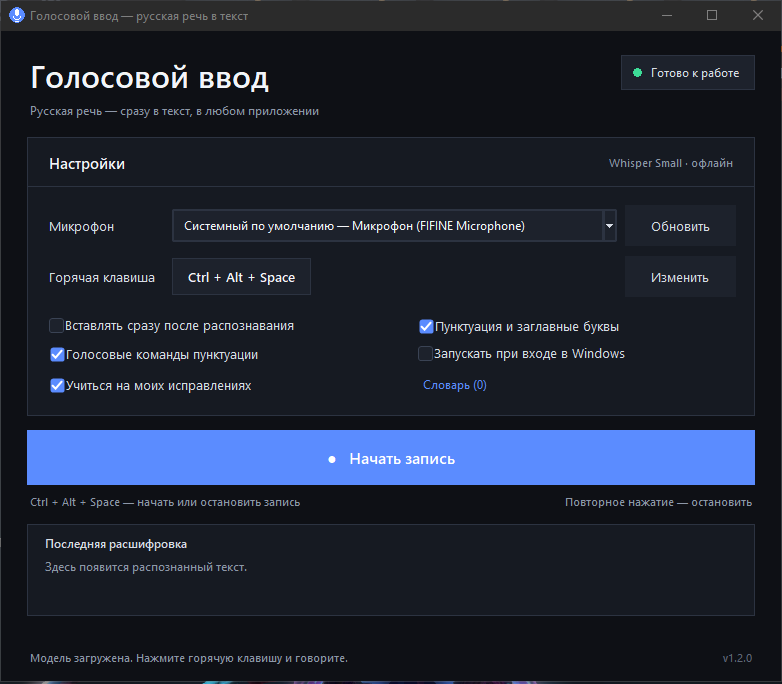
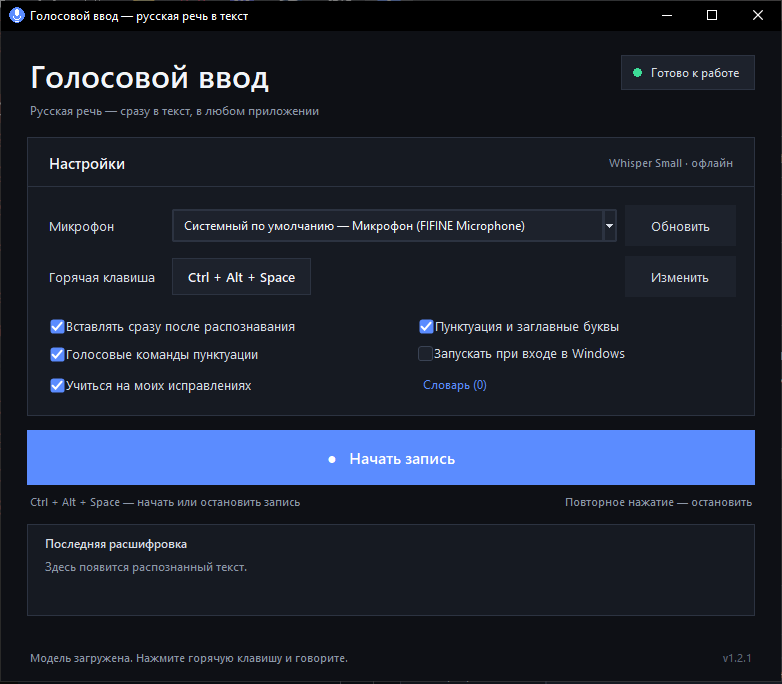
Fix input latency: use RegisterHotKey instead of keyboard hook

diff --git a/voice_input/hotkeys.py b/voice_input/hotkeys.py
@@ -1,7 +1,10 @@
-"""Глобальные горячие клавиши и их запись."""
+"""Глобальные горячие клавиши Windows без низкоуровневого перехвата клавиатуры."""
 from __future__ import annotations
 
+import ctypes
+import ctypes.wintypes as wt
 import logging
+import threading
 import time
 from typing import Callable
 
@@ -10,6 +13,17 @@ import keyboard
 log = logging.getLogger(__name__)
 
 MODIFIERS = ("ctrl", "alt", "shift", "windows")
+_MODIFIER_MASK = {
+    "alt": 0x0001,
+    "ctrl": 0x0002,
+    "shift": 0x0004,
+    "windows": 0x0008,
+}
+MOD_NOREPEAT = 0x4000
+WM_HOTKEY = 0x0312
+WM_QUIT = 0x0012
+_HOTKEY_ID = 0x5652
+
 _ALIASES = {
     "control": "ctrl",
     "ctl": "ctrl",
@@ -51,6 +65,58 @@ _DISPLAY = {
     "print screen": "Print Screen",
 }
 
+_VK = {
+    "space": 0x20,
+    "enter": 0x0D,
+    "escape": 0x1B,
+    "tab": 0x09,
+    "backspace": 0x08,
+    "delete": 0x2E,
+    "insert": 0x2D,
+    "home": 0x24,
+    "end": 0x23,
+    "page up": 0x21,
+    "page down": 0x22,
+    "up": 0x26,
+    "down": 0x28,
+    "left": 0x25,
+    "right": 0x27,
+    "print screen": 0x2C,
+    "pause": 0x13,
+    "caps lock": 0x14,
+    "num lock": 0x90,
+    "scroll lock": 0x91,
+    "plus": 0xBB,
+    "minus": 0xBD,
+    "comma": 0xBC,
+    "period": 0xBE,
+    "slash": 0xBF,
+    "backslash": 0xDC,
+    "semicolon": 0xBA,
+    "apostrophe": 0xDE,
+    "bracketleft": 0xDB,
+    "bracketright": 0xDD,
+    "grave": 0xC0,
+}
+
+_user32 = ctypes.WinDLL("user32", use_last_error=True)
+_kernel32 = ctypes.WinDLL("kernel32", use_last_error=True)
+_user32.RegisterHotKey.argtypes = (wt.HWND, ctypes.c_int, wt.UINT, wt.UINT)
+_user32.RegisterHotKey.restype = wt.BOOL
+_user32.UnregisterHotKey.argtypes = (wt.HWND, ctypes.c_int)
+_user32.UnregisterHotKey.restype = wt.BOOL
+_user32.GetMessageW.argtypes = (
+    ctypes.POINTER(wt.MSG),
+    wt.HWND,
+    wt.UINT,
+    wt.UINT,
+)
+_user32.GetMessageW.restype = ctypes.c_int
+_user32.PostThreadMessageW.argtypes = (wt.DWORD, wt.UINT, wt.WPARAM, wt.LPARAM)
+_user32.PostThreadMessageW.restype = wt.BOOL
+_user32.VkKeyScanW.argtypes = (wt.WCHAR,)
+_user32.VkKeyScanW.restype = ctypes.c_short
+
 
 def normalize_hotkey(combo: str) -> str:
     parts: list[str] = []
@@ -81,38 +147,66 @@ def format_hotkey(combo: str) -> str:
     return " + ".join(result)
 
 
-def validate_hotkey(combo: str) -> tuple[bool, str]:
+def _key_to_vk(key: str) -> int | None:
+    if key in _VK:
+        return _VK[key]
+    if len(key) == 1:
+        code = _user32.VkKeyScanW(key)
+        if code != -1:
+            return code & 0xFF
+    if len(key) >= 2 and key[0] == "f" and key[1:].isdigit():
+        number = int(key[1:])
+        if 1 <= number <= 24:
+            return 0x6F + number
+    return None
+
+
+def _parse_hotkey(combo: str) -> tuple[int, int]:
     normalized = normalize_hotkey(combo)
-    if not normalized:
-        return False, "Комбинация не задана."
     parts = normalized.split("+")
     modifiers = [part for part in parts if part in MODIFIERS]
     keys = [part for part in parts if part not in MODIFIERS]
     if not modifiers:
-        return False, "Добавьте модификатор: Ctrl, Alt, Shift или Win."
+        raise ValueError("Добавьте модификатор: Ctrl, Alt, Shift или Win.")
     if len(keys) != 1:
-        return False, "В комбинации должна быть одна основная клавиша."
-    key = keys[0]
-    if key in {"ctrl", "alt", "shift", "windows"}:
-        return False, "Нужна основная клавиша, например Space или V."
+        raise ValueError("В комбинации должна быть одна основная клавиша.")
+    vk = _key_to_vk(keys[0])
+    if vk is None:
+        raise ValueError(f"Неизвестная клавиша: {keys[0]}")
+    mask = 0
+    for modifier in modifiers:
+        mask |= _MODIFIER_MASK[modifier]
+    return mask, vk
+
+
+def validate_hotkey(combo: str) -> tuple[bool, str]:
     try:
-        keyboard.key_to_scan_codes(key)
-    except Exception:
-        return False, f"Неизвестная клавиша: {key}"
+        _parse_hotkey(combo)
+    except ValueError as exc:
+        return False, str(exc)
     return True, ""
 
 
 class GlobalHotkey:
+    """Регистрирует системную горячую клавишу через RegisterHotKey.
+
+    В отличие от keyboard-hook, Windows не пропускает каждое нажатие через
+    Python и не задерживает ввод в других приложениях.
+    """
+
     def __init__(self, callback: Callable[[], None]) -> None:
         self._callback = callback
-        self._handle = None
+        self._thread: threading.Thread | None = None
+        self._thread_id = 0
+        self._stop = threading.Event()
+        self._ready = threading.Event()
+        self._error = ""
         self.combo = ""
         self._last_trigger = 0.0
 
     def _pressed(self) -> None:
         now = time.monotonic()
-        # Защита от автоповтора, если пользователь задержал клавишу.
-        if now - self._last_trigger < 1.0:
+        if now - self._last_trigger < 0.6:
             return
         self._last_trigger = now
         try:
@@ -122,35 +216,74 @@ class GlobalHotkey:
 
     def register(self, combo: str) -> None:
         normalized = normalize_hotkey(combo)
-        valid, message = validate_hotkey(normalized)
-        if not valid:
-            raise ValueError(message)
+        modifiers, vk = _parse_hotkey(normalized)
         self.unregister()
-        handle = keyboard.add_hotkey(
-            normalized,
-            self._pressed,
-            suppress=True,
-            trigger_on_release=False,
+        self._stop = threading.Event()
+        self._ready = threading.Event()
+        self._error = ""
+        self._thread = threading.Thread(
+            target=self._listen,
+            args=(modifiers, vk),
+            name="global-hotkey",
+            daemon=True,
         )
-        self._handle = handle
+        self._thread.start()
+        if not self._ready.wait(2.0):
+            self.unregister()
+            raise RuntimeError("Не удалось запустить обработчик горячей клавиши.")
+        if self._error:
+            self.unregister()
+            raise RuntimeError(self._error)
         self.combo = normalized
         log.info("Горячая клавиша зарегистрирована: %s", normalized)
 
+    def _listen(self, modifiers: int, vk: int) -> None:
+        if not _user32.RegisterHotKey(
+            None,
+            _HOTKEY_ID,
+            modifiers | MOD_NOREPEAT,
+            vk,
+        ):
+            error = ctypes.get_last_error()
+            self._error = (
+                "Комбинация занята другой программой "
+                f"(код {error}). Назначьте другую."
+            )
+            self._ready.set()
+            return
+
+        self._thread_id = int(_kernel32.GetCurrentThreadId())
+        self._ready.set()
+        message = wt.MSG()
+        try:
+            while not self._stop.is_set():
+                result = _user32.GetMessageW(ctypes.byref(message), None, 0, 0)
+                if result == -1:
+                    self._error = "Ошибка очереди сообщений Windows."
+                    break
+                if result == 0:
+                    break
+                if message.message == WM_HOTKEY and message.wParam == _HOTKEY_ID:
+                    self._pressed()
+        finally:
+            _user32.UnregisterHotKey(None, _HOTKEY_ID)
+            self._thread_id = 0
+
     def unregister(self) -> None:
-        if self._handle is not None:
-            try:
-                keyboard.remove_hotkey(self._handle)
-            except Exception:
-                log.debug("Не удалось снять горячую клавишу", exc_info=True)
-            self._handle = None
+        thread = self._thread
+        if thread is None:
             self.combo = ""
+            return
+        self._stop.set()
+        if self._thread_id:
+            _user32.PostThreadMessageW(self._thread_id, WM_QUIT, 0, 0)
+        thread.join(timeout=1.5)
+        self._thread = None
+        self.combo = ""
+        log.info("Горячая клавиша снята")
 
     def shutdown(self) -> None:
         self.unregister()
-        try:
-            keyboard.unhook_all_hotkeys()
-        except Exception:
-            pass
 
 
 def normalize_key_name(name: str | None) -> str:
@@ -171,10 +304,7 @@ def normalize_key_name(name: str | None) -> str:
 
 
 def read_hotkey() -> str | None:
-    """Блокирующее чтение комбинации. None — пользователь нажал Esc.
-
-    Оставлено для диагностики; интерфейс использует отменяемый hook.
-    """
+    """Блокирующее чтение комбинации для диагностики."""
     time.sleep(0.15)
     try:
         combo = keyboard.read_hotkey(suppress=True)

diff --git a/voice_input/app.py b/voice_input/app.py
@@ -686,23 +686,31 @@ class VoiceInputApp:
     # --------------------------------------------------------------- hotkey
 
     def _register_hotkey_initial(self) -> None:
-        try:
-            self.hotkey.register(self.config.hotkey)
-        except Exception as exc:
-            log.warning("Не удалось зарегистрировать %s: %s", self.config.hotkey, exc)
+        candidates: list[str] = []
+        for combo in (self.config.hotkey, DEFAULT_HOTKEY, "ctrl+alt+f9", "ctrl+shift+f9"):
+            if combo and combo not in candidates:
+                candidates.append(combo)
+        last_error: Exception | None = None
+        for index, combo in enumerate(candidates):
             try:
-                self.hotkey.register(DEFAULT_HOTKEY)
-                self.config.hotkey = DEFAULT_HOTKEY
+                self.hotkey.register(combo)
+            except Exception as exc:
+                last_error = exc
+                log.warning("Не удалось зарегистрировать %s: %s", combo, exc)
+                continue
+            if combo != self.config.hotkey:
+                self.config.hotkey = combo
                 self._save_config()
-            except Exception:
-                self.status_badge.set("Горячая клавиша недоступна", RED)
                 self.footer_label.configure(
-                    text="Глобальная клавиша занята. Запись доступна кнопкой."
+                    text=f"Комбинация была занята — назначена {format_hotkey(combo)}."
                 )
-            else:
-                self.footer_label.configure(
-                    text="Выбранная комбинация занята — восстановлена стандартная."
-                )
+            break
+        else:
+            log.error("Все горячие клавиши заняты: %s", last_error)
+            self.status_badge.set("Горячая клавиша недоступна", RED)
+            self.footer_label.configure(
+                text="Все предложенные комбинации заняты. Запись доступна кнопкой."
+            )
         if self.hotkey.combo:
             self.key_label.configure(text=format_hotkey(self.config.hotkey), fg=TEXT)
         else:

diff --git a/voice_input/paths.py b/voice_input/paths.py
@@ -10,7 +10,7 @@ from pathlib import Path
 
 APP_NAME = "VoiceInputRU"
 APP_TITLE = "Голосовой ввод"
-VERSION = "1.2.0"
+VERSION = "1.2.1"
 MODEL_FOLDER_NAME = "faster-whisper-small"
 
 

diff --git a/README.md b/README.md
@@ -1,4 +1,4 @@
-# Голосовой ввод
+# Голосовой ввод
 
 Локальная программа для Windows: нажимаете горячую клавишу, говорите по-русски,
 нажимаете ещё раз — распознанный текст можно сразу вставить в любое приложение,
@@ -28,7 +28,7 @@
 
 1. Откройте страницу релизов:
    **[github.com/iliatty/voice-input-ru/releases](https://github.com/iliatty/voice-input-ru/releases/latest)**.
-2. Скачайте `VoiceInputRU-1.2.0-win64.zip`.
+2. Скачайте `VoiceInputRU-1.2.1-win64.zip`.
 3. Распакуйте архив в любую папку, например `C:\Tools\VoiceInputRU`.
 4. Запустите `VoiceInputRU.exe`.
 
@@ -238,7 +238,8 @@ build_exe.bat
 - faster-whisper `Systran/faster-whisper-small` — офлайн-распознавание русской речи
   с готовой пунктуацией;
 - `pystray` + Pillow — иконка и меню в системном трее;
-- глобальные горячие клавиши — библиотека `keyboard` (низкоуровневый hook Windows);
+- глобальные горячие клавиши — Win32 `RegisterHotKey`, без низкоуровневого
+  keyboard-hook, поэтому программа не задерживает ввод в других приложениях;
 - вставка — буфер обмена + `Ctrl+V` через Win32 `SendInput`;
 - загрузка модели — в фоновом потоке, чтобы интерфейс не замирал;
 - аудио ресемплится в 16 кГц, если микрофон не поддерживает этот режим напрямую.
